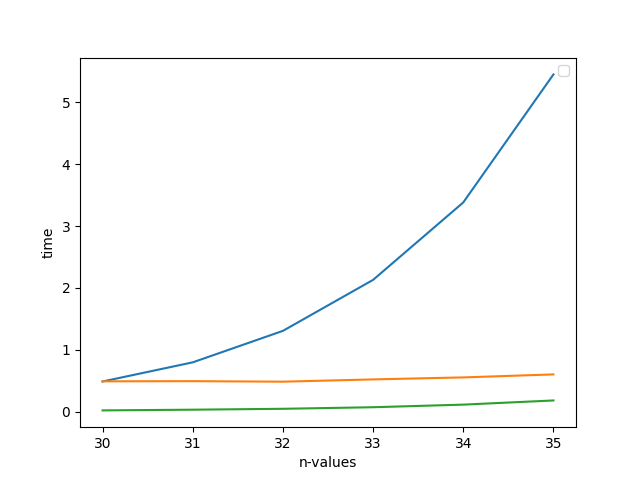
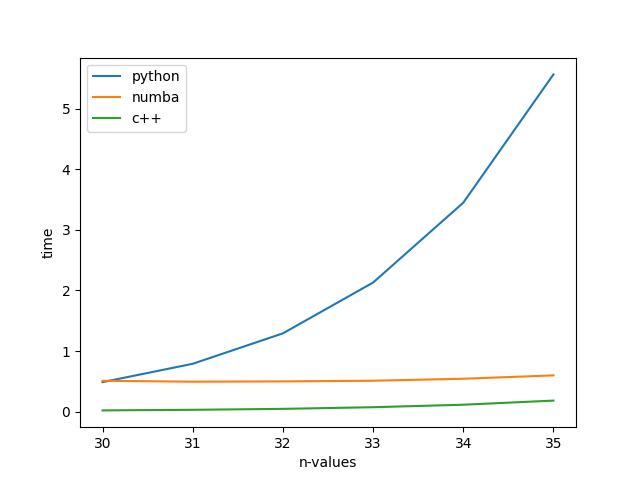
test with n=30 and n= 35, nr 3

diff --git a/MA4_Files/MA4_2.py b/MA4_Files/MA4_2.py
@@ -36,14 +36,16 @@ def fib_threading_cpp(lst, p, n):
 	return lst
 
 def plotting(fp, fn, fc, n_lst):
-	for f in [fp ,fn, fc]:
-		plt.plot(n_lst, f)
+
+
+	for f, l in zip([fp ,fn, fc],["python", "numba", "c++"]):
+		plt.plot(n_lst, f, label=l)
 
 	plt.xlabel("n-values")
 	plt.ylabel("time")
 	plt.title("")
 	plt.legend()
-
+	plt.show()
 	plt.savefig("plot.png")	
 
 
